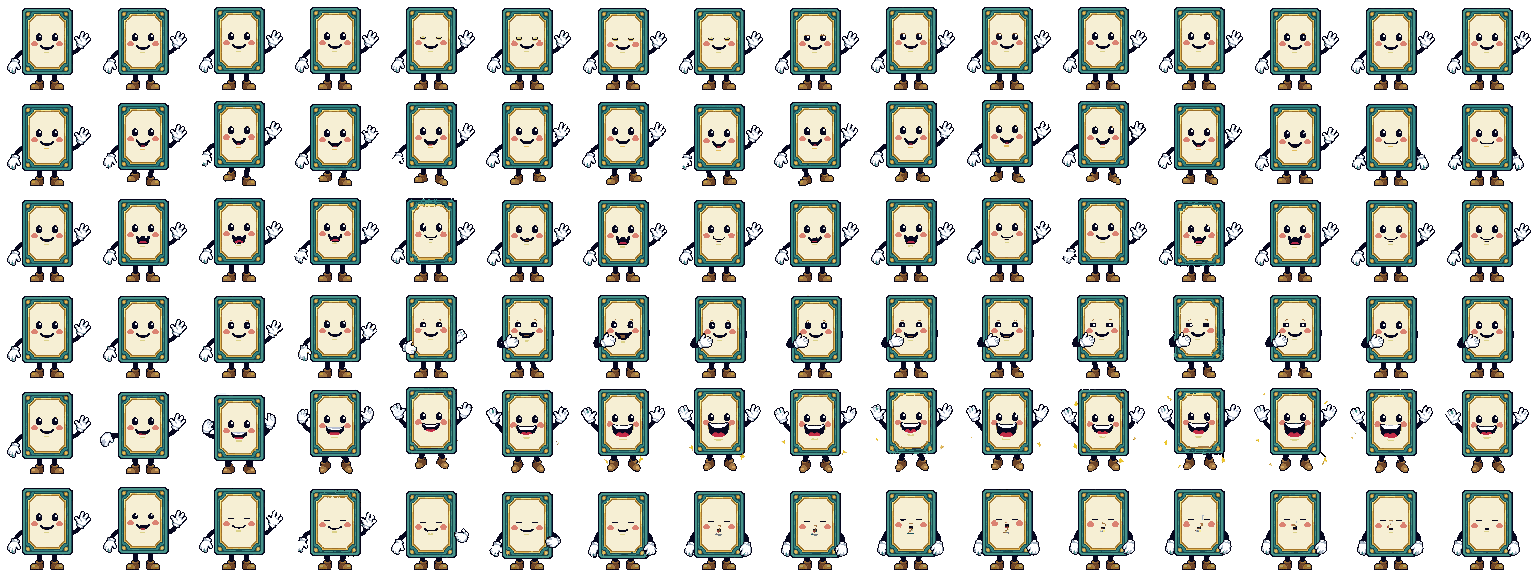
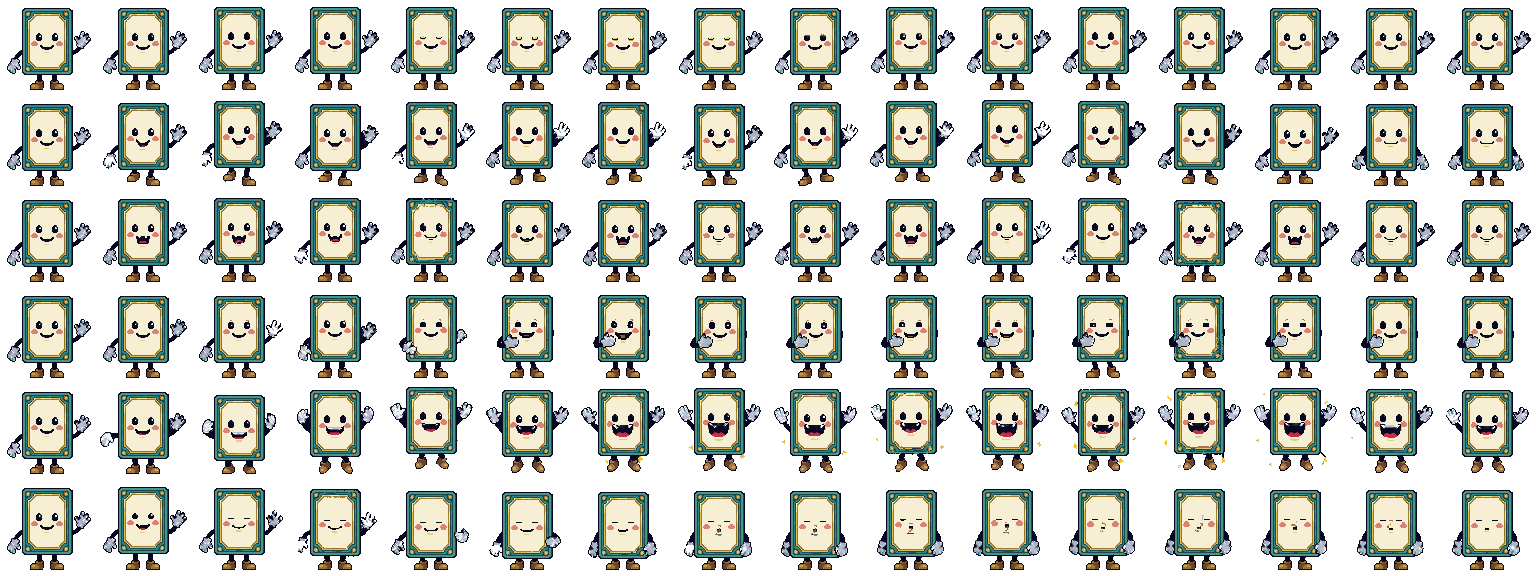
Cardy: still most of the time, a fidget every 12-18 s with cross-faded frames; fill see-through gaps in the sheet
Claude-Session: https://claude.ai/code/session_01KTGPHgov1KSS6g1jzDSq69

diff --git a/MTG_Lookup_Tool.html b/MTG_Lookup_Tool.html
@@ -23463,11 +23463,28 @@ html:not([data-fx="off"]) :is(button, input, select, textarea):disabled { cursor
         return o;
     }
     const CARDY_HATS = { halloween: 'witch', christmas: 'santa', winter: 'winter', newyear: 'party', spring: 'bunny', autumn: 'leaf' };
+    const CARDY_STIR = [0, 1, 6, 7, 13, 14, 15, 14, 13, 7, 6, 1, 0]; // the calm frames of the idle row (eyes open, a small sway), played once for a 'look'
     const CARDY_ROW = { idle: 0, look: 0, point: 1, wave: 1, talk: 2, think: 3, cheer: 4, surprised: 4, sleep: 5 };
     function cardyRender(now) {
         const t = now / 1000, g = CARDY.g; if (!g) return;
         if (CARDY.art) { // generated sheet: 16 frames per row, 96 x 96
-            const row = CARDY_ROW[CARDY.pose] || 0, f = Math.floor(t * 12) % 16; g.clearRect(0, 0, 96, 96); g.imageSmoothingEnabled = false; g.drawImage(CARDY.art, f * 96, row * 96, 96, 96, 0, 0, 96, 96); return;
+            // He stands still (frame 0 of the idle row) and only blinks, then every 12-18 s a fidget plays: a stir (the calm idle frames), a wave, a think or a cheer.
+            // Fidgets play there-and-back (no pop where the loop ends) and slowly, and each frame fades into the next so the motion stays smooth.
+            const pose = CARDY.pose, row = CARDY_ROW[pose] || 0;
+            if (CARDY.seenPose !== pose) { CARDY.seenPose = pose; CARDY.poseAt = now; }
+            const reduced = !!(window.matchMedia && matchMedia('(prefers-reduced-motion: reduce)').matches);
+            const put = (f, r, a) => { g.globalAlpha = a; g.drawImage(CARDY.art, f * 96, r * 96, 96, 96, 0, 0, 96, 96); };
+            g.clearRect(0, 0, 96, 96); g.imageSmoothingEnabled = false;
+            if (pose === 'idle' || reduced) put(pose === 'idle' && performance.now() < CARDY.blinkUntil ? 3 : 0, row, 1);
+            else {
+                const seq = pose === 'look' ? CARDY_STIR : null, n = seq ? seq.length : 16;
+                const u = Math.max(0, now - (CARDY.poseAt || now)) / 1000 * (pose === 'look' ? 6 : pose === 'sleep' ? 4 : 8);
+                const pp = i => { if (seq) return seq[Math.min(i, n - 1)]; const m = i % (2 * n - 2); return m < n ? m : 2 * n - 2 - m; };
+                const i0 = Math.floor(u), fr = u - i0;
+                put(pp(i0), pose === 'look' ? 0 : row, 1);
+                if (fr > 0.04 && !(seq && i0 >= n - 1)) put(pp(i0 + 1), pose === 'look' ? 0 : row, fr);
+            }
+            g.globalAlpha = 1; return;
         }
         cardyDraw(g, cardyParams(CARDY.pose, t), CARDY_HATS[pxfName()] || null);
     }
@@ -23479,10 +23496,10 @@ html:not([data-fx="off"]) :is(button, input, select, textarea):disabled { cursor
     function cardyTick(now) {
         if (!CARDY.cv || !cardyAllowed()) return;
         if (CARDY.until && now > CARDY.until) { CARDY.until = 0; CARDY.pose = CARDY.sleeping ? 'sleep' : CARDY.bubbleT && CARDY.talking ? 'talk' : 'idle'; }
-        if (now > CARDY.nextBlink) { CARDY.blinkUntil = now + 140; CARDY.nextBlink = now + 2400 + Math.random() * 3200; }
+        if (now > CARDY.nextBlink) { CARDY.blinkUntil = now + 140; CARDY.nextBlink = now + 3200 + Math.random() * 3800; }
         const bubbleOpen = !!document.getElementById('cardyBubble') && !document.getElementById('cardyBubble').hidden;
         if (!CARDY.sleeping && !bubbleOpen && CARDY.pose === 'idle' && now > CARDY.nextFidget) {
-            const pick = ['look', 'look', 'wave', 'think', 'cheer'][Math.floor(Math.random() * 5)]; cardyPose(pick, pick === 'wave' ? 1800 : pick === 'cheer' ? 1200 : 2400); CARDY.nextFidget = now + 9000 + Math.random() * 14000;
+            const pick = ['look', 'look', 'wave', 'think', 'cheer'][Math.floor(Math.random() * 5)]; cardyPose(pick, pick === 'wave' ? 2600 : pick === 'cheer' ? 2200 : pick === 'think' ? 3000 : 2200); CARDY.nextFidget = now + 12000 + Math.random() * 6000;
         }
         if (!CARDY.sleeping && !bubbleOpen && now - CARDY.lastInput > 90000) { CARDY.sleeping = true; cardyPose('sleep'); }
         if (!bubbleOpen && !CARDY.sleeping && CARDY.pose === 'idle' && now > CARDY.nextQuip && now - CARDY.lastInput < 60000 && !(document.activeElement && /INPUT|TEXTAREA|SELECT/.test(document.activeElement.tagName))) { CARDY.nextQuip = now + 240000 + Math.random() * 180000; cardyQuip(); }
@@ -23492,7 +23509,7 @@ html:not([data-fx="off"]) :is(button, input, select, textarea):disabled { cursor
     function cardyLoop(now) {
         if (!CARDY.running) return;
         requestAnimationFrame(cardyLoop);
-        if (document.hidden || now - CARDY.lastDraw < 83) return;
+        if (document.hidden || now - CARDY.lastDraw < (CARDY.art && CARDY.pose !== 'idle' ? 40 : 83)) return;
         CARDY.lastDraw = now; cardyTick(now); cardyRender(now);
     }
 
@@ -23601,7 +23618,7 @@ html:not([data-fx="off"]) :is(button, input, select, textarea):disabled { cursor
             cv.addEventListener('click', () => { cardyWake(); if (CARDY.pose !== 'surprised') cardyPose('surprised', 700); setTimeout(cardyMenu, 350); });
             cv.addEventListener('keydown', e => { if (e.key === 'Enter' || e.key === ' ') { e.preventDefault(); cv.click(); } });
             try { JSON.parse(sessionStorage.getItem('cardySeen') || '[]').forEach(k => CARDY.seen.add(k)); } catch (e) { /* none */ }
-            CARDY.seen.add('mtg'); CARDY.nextBlink = cardyNow() + 2000; CARDY.nextFidget = cardyNow() + 6000; CARDY.nextQuip = cardyNow() + 150000;
+            CARDY.seen.add('mtg'); CARDY.nextBlink = cardyNow() + 2000; CARDY.nextFidget = cardyNow() + 9000; CARDY.nextQuip = cardyNow() + 150000;
             const pm = e => { CARDY.px = e.clientX; CARDY.py = e.clientY; CARDY.lastInput = cardyNow(); if (CARDY.sleeping) cardyWake(); };
             document.addEventListener('pointermove', pm, { passive: true }); document.addEventListener('keydown', () => cardyWake(), { passive: true });
             cardyHello();

diff --git a/tools/polish_cardy.py b/tools/polish_cardy.py
@@ -110,6 +110,39 @@ def line(fr, p, q, color):
                 fr[y + oy, x + ox] = color
 
 
+def fill_enclosed(fr):
+    # clear pixels that cannot reach the frame's edge through other clear pixels are holes in the figure
+    a = fr[..., 3] > 0
+    h, w = a.shape
+    out = np.zeros((h, w), dtype=bool)
+    stack = [(y, x) for y in range(h) for x in (0, w - 1) if not a[y, x]] + [(y, x) for x in range(w) for y in (0, h - 1) if not a[y, x]]
+    for y, x in stack:
+        out[y, x] = True
+    while stack:
+        y, x = stack.pop()
+        for dy, dx in ((1, 0), (-1, 0), (0, 1), (0, -1)):
+            ny, nx = y + dy, x + dx
+            if 0 <= ny < h and 0 <= nx < w and not a[ny, nx] and not out[ny, nx]:
+                out[ny, nx] = True
+                stack.append((ny, nx))
+    holes = (~a) & (~out)
+    n = int(holes.sum())
+    todo = holes.copy()
+    for _ in range(12):
+        if not todo.any():
+            break
+        got = []
+        for y, x in zip(*np.nonzero(todo)):
+            near = [fr[y + dy, x + dx] for dy, dx in NB if 0 <= y + dy < h and 0 <= x + dx < w and fr[y + dy, x + dx, 3] > 0]
+            if near:
+                got.append((y, x, np.mean(near, axis=0).astype(np.uint8)))
+        for y, x, c in got:
+            fr[y, x] = c
+            fr[y, x, 3] = 255
+            todo[y, x] = False
+    return n
+
+
 def tidy(fr, row):
     fr, lonely, holes = majority(fr)
     removed = joined = 0
@@ -141,6 +174,7 @@ def tidy(fr, row):
                     dark = np.median(np.array(darks), axis=0).astype(np.uint8)
                 line(fr, best[1], best[2], dark)
                 joined += 1
+    holes += fill_enclosed(fr)
     return fr, lonely, holes, removed, joined
 
 

diff --git a/CLAUDE.md b/CLAUDE.md
@@ -425,7 +425,7 @@ Built from the owner's pick of the Flash Lab mock (everything in it, plus treatm
 - **Living Realm, cursor trail and Cardy (2026-10-21, owner: "a faint pixel trail that follows the mouse", "the scene follows the store's real weather and time of day", "hovering a tab nudges the scene", and "a play on Clippy ... a talking card full of spunk that just wants to help"; test `node tests/mtg_fx.js`):**
   - **Realm by time and weather** (`pxrNow`, `pxrWeather`, in the Realm script): the sky follows the device clock (dawn 5.5 to 8h, dusk 17 to 19.5h: stars, a live sun or moon on the castle biome, token-based grading overlays), and the weather chip's data (`fxWeather`, the selected store) overrides it with its own day/night flag and kind (rain, storm, snow, fog, clouds). Previews: `?realmtime=<hour>` and `?realmwx=<kind>`. **Pointer parallax:** the layers shift a few pixels with the mouse (`REALM.mx/my`), and hovering or opening a menu tab gives the scene a short gust (`REALM.boost`; scroll speed rises and settles). Wind uses real time (dt), so the speed doesn't depend on the frame rate. Costs about 0.15 ms a paint. The "dragon drops a scroll that links to a tool" idea isn't built (Cardy's menu and quick jump cover it); ask the owner before building it.
   - **Cursor trail** (`pxTrail`, `trailMove`, in `<script id="pxCardyScript">`, Full only): a faint trail of at most 28 pixel dots in the brand and heading tokens that fades in half a second, on a canvas drawn at a third of the screen size so the dots are chunky. Mouse only (not touch), none for reduced motion.
-  - **Cardy** (`CARDY_NAME`, same script; replaces the earlier moon-and-rocket mascot idea, whose `mascot` art swap was removed): a talking trading card who lives inside the title banner (so he never covers a tool), drawn in code from the tokens (cream card, a face, arms, legs, a seasonal accessory from `CARDY_HATS`: witch hat, Santa hat, winter beanie, party hat, bunny ears, leaf). Poses: idle (blinks, eyes follow the mouse), look, wave, talk, think, cheer, surprised, point, sleep (after 90 s without input). **What he does:** says hello once per session with "🗺 Show me around" / "Not now" / "🙈 Hide me"; shows a one-line tip the first time a tab opens (`cardyTipFor`, from `APP_VIEWS[..].desc`); clicking him opens a menu (tip for this tab, tour, fun fact, jump to a tool, hide); the tour only highlights things (`.cardy-spot`: search box, menus, Moonshot Search, Effects, the weather chip), it never clicks or moves anything for you; a quip every 4 to 7 minutes of activity. The bubble is fixed near him, types out its text (instant for reduced motion), keeps its text for screen readers (`cardyEsc`), and closes by itself unless it has buttons. **Rules:** follows Full and Subtle (gone at Off), hidden by the 🃏 Cardy button in the top row or "Hide me" (saved per device as `cardyOff`), `?cardy=off` turns him off; 44 x 48 drawing shown at 2x (1x under 520 px so the title stays readable). **He is this fan-made tool's helper, not the store's: he never talks about prices, hours or store policy.** His fun facts are plain MTG facts. Optional art: `art/site/cardy.png` (1536 x 576, 6 rows of 16 frames of 96 x 96: idle, wave, talk, think, cheer, sleep; `CARDY_ROW` maps poses to rows) replaces the drawing when it exists; generator asset `cardy` in group `site` (`py tools\make_art.py --go --group site`). **Cleanup (2026-10-21):** `python tools/polish_cardy.py [--write] [--replace row:col=srccol]` (numpy + Pillow, no API calls) lines the card up per row, removes edge speckle and above-card noise, fills one-pixel holes and joins floating gloves to the body with a dark arm line (the cheer row's yellow sparkles stay); the original goes to `tools/.art-cache/cardy-original.png`. Run it once per freshly generated sheet; the committed `cardy.png` is already cleaned, with frame 5 of the wave row replaced by frame 6 (`--replace 1:5=6`). The name Cardy is provisional.
+  - **Cardy** (`CARDY_NAME`, same script; replaces the earlier moon-and-rocket mascot idea, whose `mascot` art swap was removed): a talking trading card who lives inside the title banner (so he never covers a tool), drawn in code from the tokens (cream card, a face, arms, legs, a seasonal accessory from `CARDY_HATS`: witch hat, Santa hat, winter beanie, party hat, bunny ears, leaf). Poses: idle (blinks, eyes follow the mouse), look, wave, talk, think, cheer, surprised, point, sleep (after 90 s without input). **What he does:** says hello once per session with "🗺 Show me around" / "Not now" / "🙈 Hide me"; shows a one-line tip the first time a tab opens (`cardyTipFor`, from `APP_VIEWS[..].desc`); clicking him opens a menu (tip for this tab, tour, fun fact, jump to a tool, hide); the tour only highlights things (`.cardy-spot`: search box, menus, Moonshot Search, Effects, the weather chip), it never clicks or moves anything for you; a quip every 4 to 7 minutes of activity. The bubble is fixed near him, types out its text (instant for reduced motion), keeps its text for screen readers (`cardyEsc`), and closes by itself unless it has buttons. **Rules:** follows Full and Subtle (gone at Off), hidden by the 🃏 Cardy button in the top row or "Hide me" (saved per device as `cardyOff`), `?cardy=off` turns him off; 44 x 48 drawing shown at 2x (1x under 520 px so the title stays readable). **He is this fan-made tool's helper, not the store's: he never talks about prices, hours or store policy.** His fun facts are plain MTG facts. Optional art: `art/site/cardy.png` (1536 x 576, 6 rows of 16 frames of 96 x 96: idle, wave, talk, think, cheer, sleep; `CARDY_ROW` maps poses to rows) replaces the drawing when it exists; generator asset `cardy` in group `site` (`py tools\make_art.py --go --group site`). **Cleanup (2026-10-21):** `python tools/polish_cardy.py [--write] [--replace row:col=srccol]` (numpy + Pillow, no API calls) lines the card up per row, removes edge speckle and above-card noise, fills one-pixel holes and joins floating gloves to the body with a dark arm line (the cheer row's yellow sparkles stay); the original goes to `tools/.art-cache/cardy-original.png`. Run it once per freshly generated sheet; the committed `cardy.png` is already cleaned, with frame 5 of the wave row replaced by frame 6 (`--replace 1:5=6`). **Calmer motion and no see-through gaps (2026-10-21, owner: "smooth out his animations ... more idle time instead of him jerking ... move on occasion like every 15 seconds"):** with the art sheet Cardy stands still on frame 0 of the idle row and only blinks (frame 3, every 3 to 7 s); every 12 to 18 s a fidget plays (`CARDY.nextFidget`): a stir (`CARDY_STIR`, the calm idle frames played once at 6 fps), a wave, a think or a cheer. Fidget rows play there-and-back (no pop at the loop end) at 8 fps and each frame fades into the next (two draws with alpha, drawn at about 24 fps while a fidget plays, 12 fps otherwise), which stands in for extra frames (the service offers at most 16 per animation). Reduced motion holds the rest frame. `polish_cardy.py` also fills clear pixels walled in by the drawing (inside the gloves, eye catchlights: about 125 a frame) so the page never shows through him.  The name Cardy is provisional.
 - **Not ported yet:** the Pokémon tool and Beginner Guides don't have these effects. The Pokémon tool copies the MTG tool's CSS, so port them there too if the owner asks.
 
 ## Seasonal themes (`MTG_Lookup_Tool.html`)
